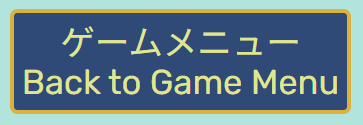
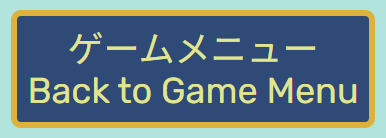
Add back to homepage info to readme, finish game area of readme

Changed region(s): [[0.0303, 0.072, 0.9697, 0.936], [0.1515, 0.216, 0.8182, 0.48], [0.697, 0.552, 0.9394, 0.768]]

diff --git a/README.md b/README.md
@@ -193,7 +193,7 @@ Katakana game page on mobile:
 
 #### **Game Area**
 
-The game area on each page contains four main sections: an h2 heading detailing which game is currently selected, a question area, an answer area containing four potential answers, and a current score section at the bottom.
+The game area on each page contains four main sections: an h2 heading detailing which game is currently selected, a question area, an answer area containing four potential answers, and a current score section at the bottom. The game areas themselves are structured identically, but with different colour styling so that the user can distinguish the games from one another by colour as well as by reading the heading.
 
 Hiragana game area:
 
@@ -226,6 +226,8 @@ The current score section is a clear, simple paragraph beneath the question & an
 ![katakana current score](docs/screenshots/katakana-current-score.png)
 
 #### **Back to Homepage**
+
+Beneath the game area on each game page, there is a button that uses the Japanese katakana loan words for "game menu" above the English text "Back to Game Menu". The styling for this button is the same on both pages, to ensure that the user's familiarity with its function isn't compromised across either game. 
 
 ![back to homepage / "game menu" button](docs/screenshots/back-to-homepage.png)
 
